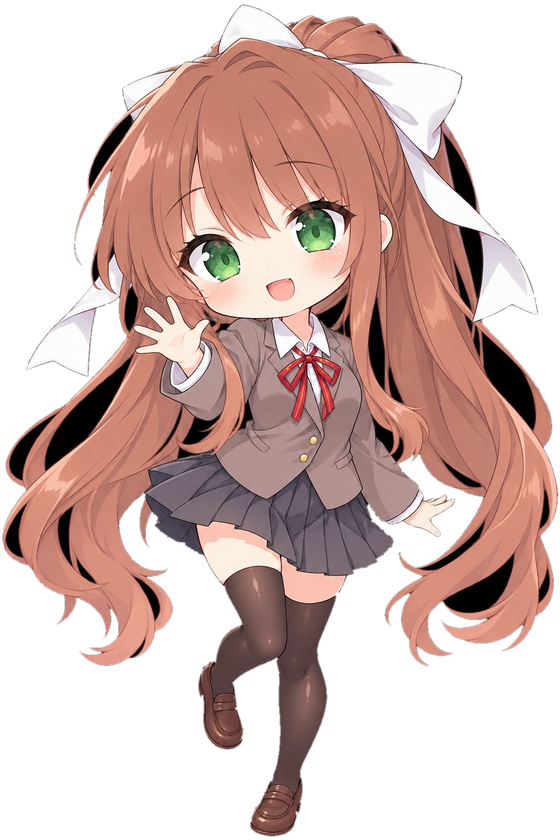
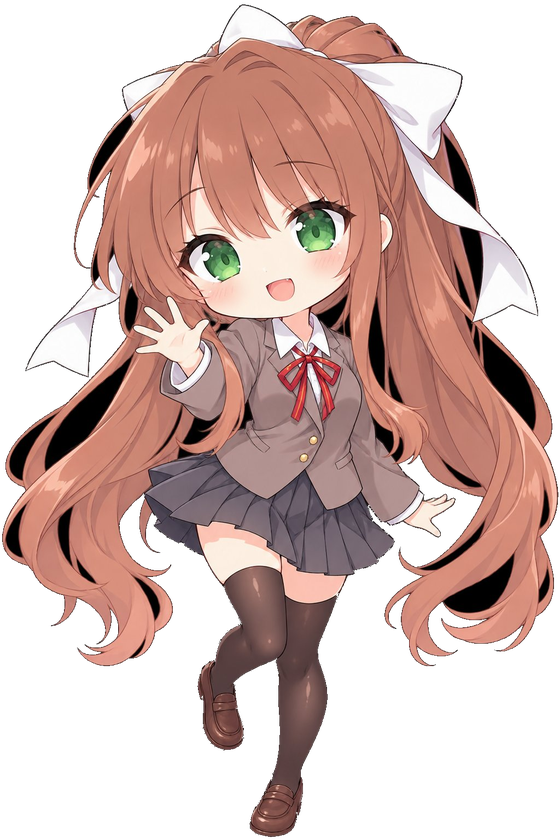
看板娘换新版挥手立绘，加 2 帧眨眼 WebP（睁眼 3s / 闭眼 150ms 循环）

diff --git a/index.html b/index.html
@@ -2139,7 +2139,7 @@ body.bgm-playing .bgm-play-btn .ic-pause { display: block; }
     <!-- ── 看板娘立绘 ── -->
     <div class="mascot" id="mascot" role="button" tabindex="0" aria-label="看板娘 Monika，点击有话说">
       <div class="mascot-bubble" id="mascotBubble" aria-hidden="true"></div>
-      <img class="mascot-img" src="assets/monika-chibi.png" alt="" draggable="false">
+      <img class="mascot-img" src="assets/monika-chibi-blink.webp" alt="" draggable="false">
     </div>
 
     <!-- ── 页眉 ── -->
@@ -3856,6 +3856,12 @@ musicSavePublished?.addEventListener("click", async () => {
   const mascot = document.getElementById("mascot");
   const bubble = document.getElementById("mascotBubble");
   if (!mascot || !bubble) return;
+
+  // 减少动态偏好：用静态睁眼帧代替眨眼动图
+  if (prefersReducedMotion) {
+    const img = mascot.querySelector(".mascot-img");
+    if (img) img.src = "assets/monika-chibi.png";
+  }
 
   const lines = [
     "呐，你来了。今天也想和你多待一会儿。",
